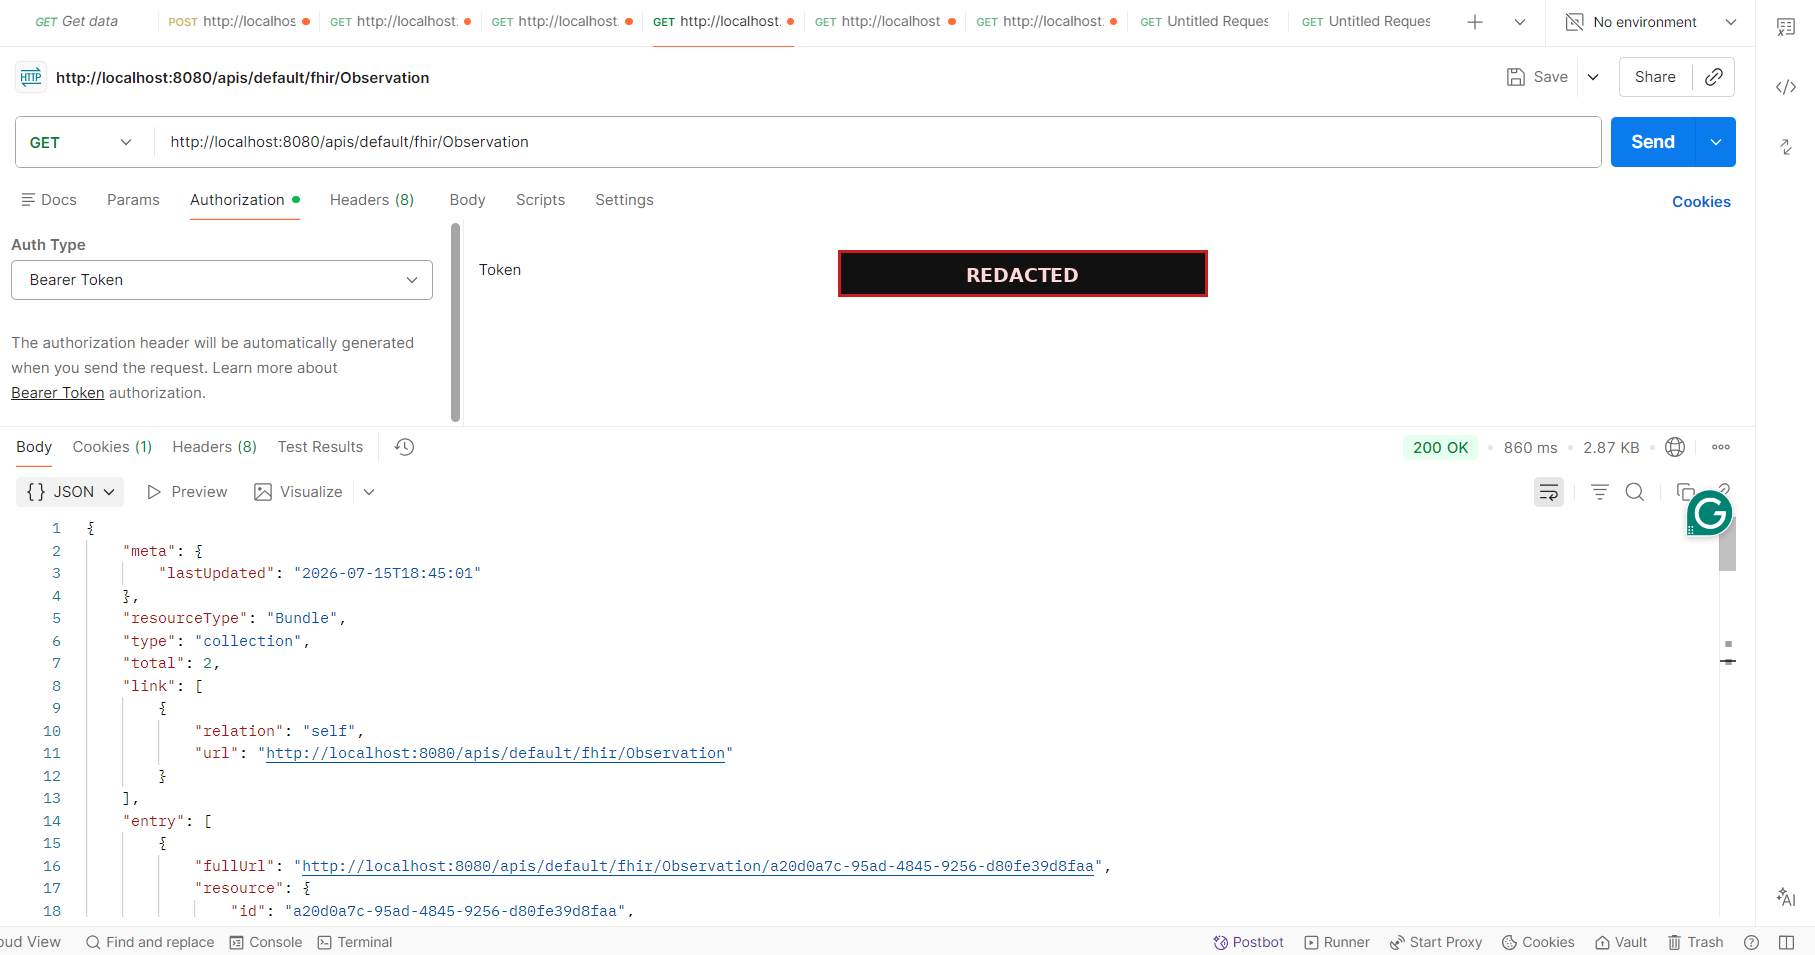
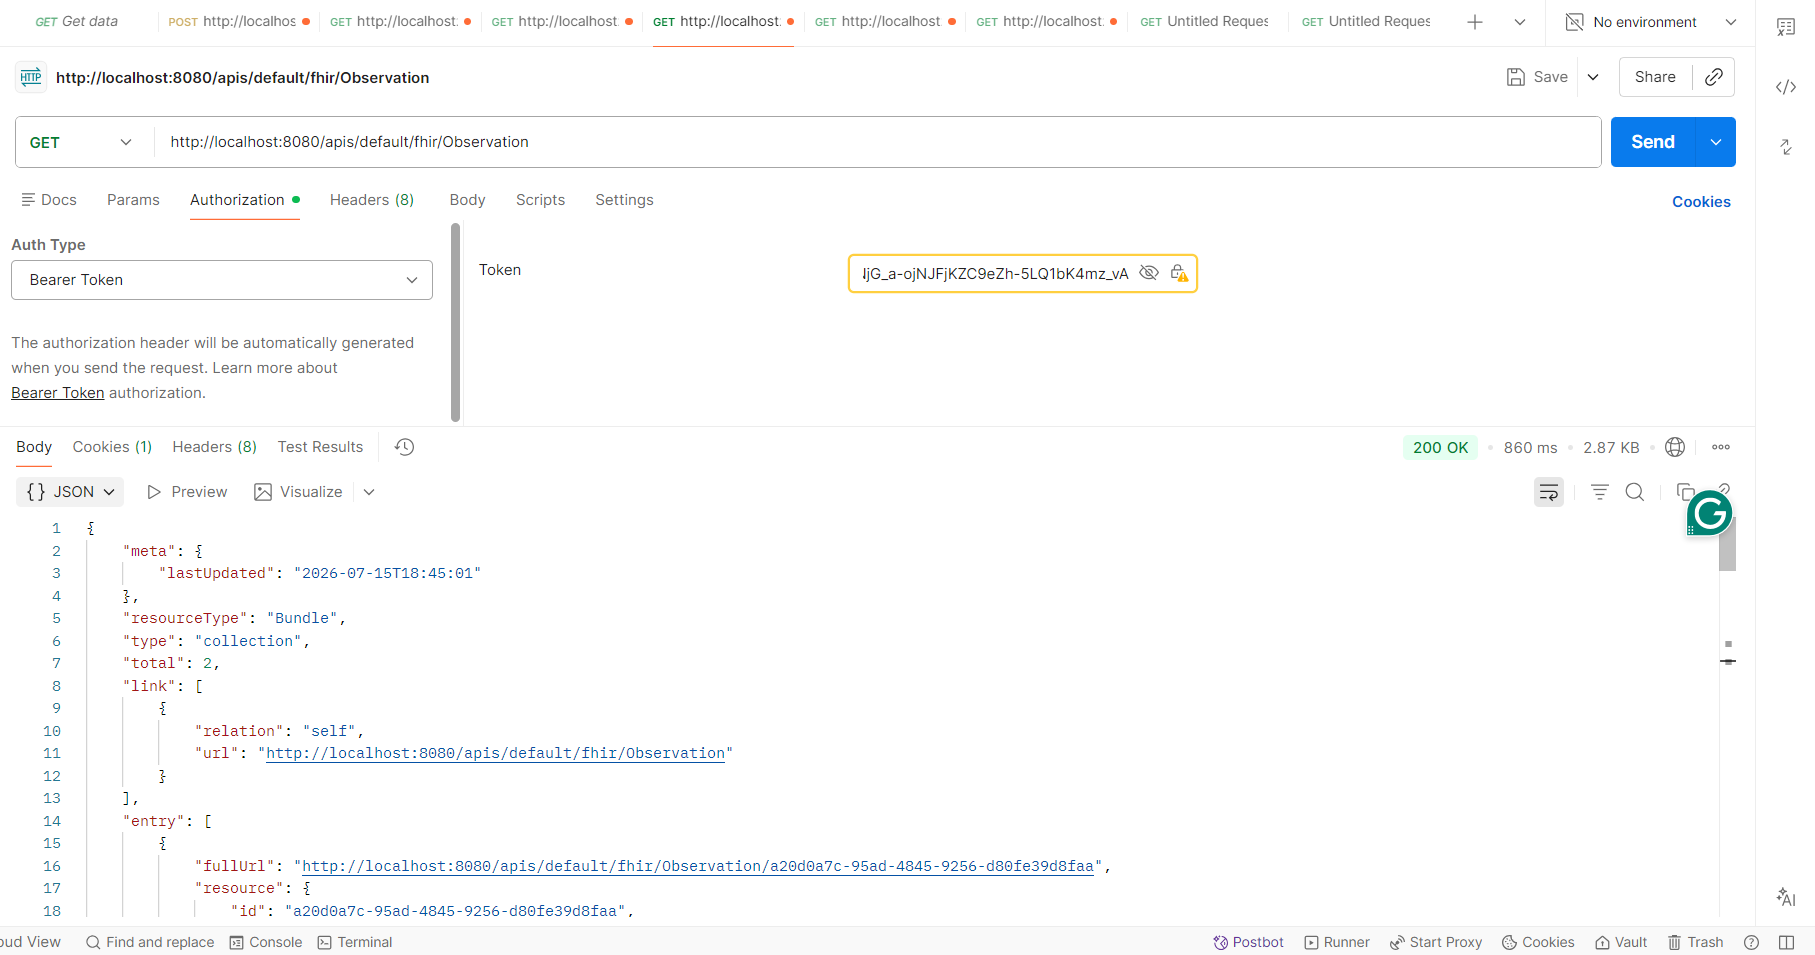
Reduce redaction to the non-expiring secrets only
Bearer tokens, session identifiers and the client ID are now shown as
captured. They expired in July and carry no risk.

The password and client secret stay covered: unlike tokens, those remain
valid until someone revokes them. The request in question runs against a
local Docker instance that no longer exists, so this is habit rather than
exposure.

Captions updated, since the previous wording overstated what was hidden.

Changed region(s): [[0.4628, 0.2429, 0.6788, 0.334]]

diff --git a/index.html b/index.html
@@ -385,7 +385,8 @@ footer p{max-width:70ch}
   <section id="evidence">
     <div class="sec-hd">
       <h2>Evidence</h2>
-      <p>Credentials, client identifiers and bearer tokens are blacked out.</p>
+      <p>Shown as captured. Only the client secret and password are covered, since
+      those stay valid until revoked; the tokens visible here expired in July.</p>
     </div>
     <div class="shots">
       <figure><img src="images/openemr-fhir-enable.png" alt="OpenEMR connector settings with the FHIR REST API and OAuth2 options enabled" loading="lazy">

diff --git a/README.md b/README.md
@@ -129,8 +129,10 @@ The last two are the evidence behind
 
 ## Evidence
 
-Screenshots from the work. Credentials, client identifiers, session tokens and
-bearer tokens are blacked out.
+Screenshots from the work, shown as captured. The only things covered are the
+client secret and the password, because those stay valid until revoked. Access
+tokens, the client identifier and session identifiers are visible: they expired
+within the hour, back in July.
 
 Click any image to open it full size. They are screens of dense interface text,
 so they are worth enlarging rather than squinting at.
@@ -152,8 +154,9 @@ New clients arrive disabled and the secret is shown once.
 
 ### Getting a token
 
-`POST /oauth2/default/token` returning `200 OK`. The credentials and the
-returned token are blacked out.
+`POST /oauth2/default/token` returning `200 OK`, against a local Docker
+instance. The returned access token is shown in full and expired long ago. Only
+the password and client secret stay covered.
 
 ![Postman OAuth2 token request returning HTTP 200 OK](images/oauth2-token-request.png)
 
